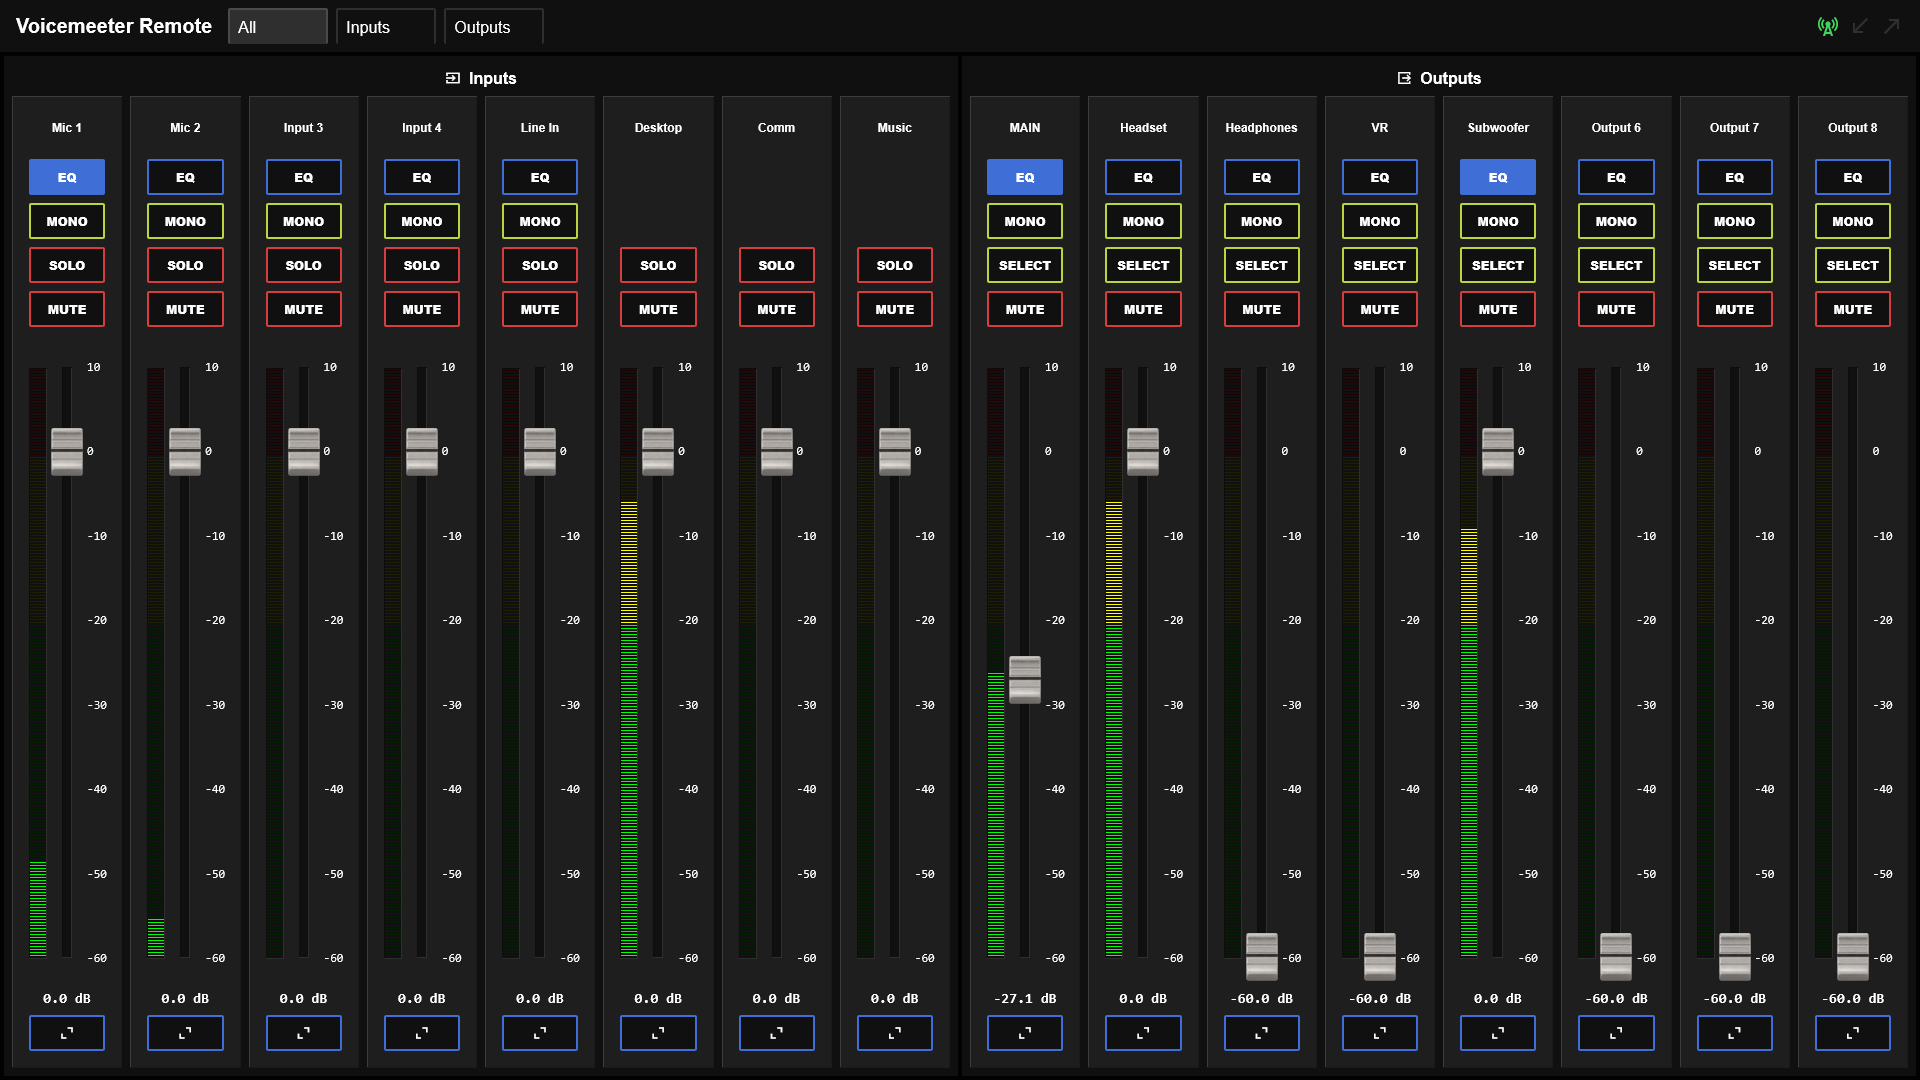
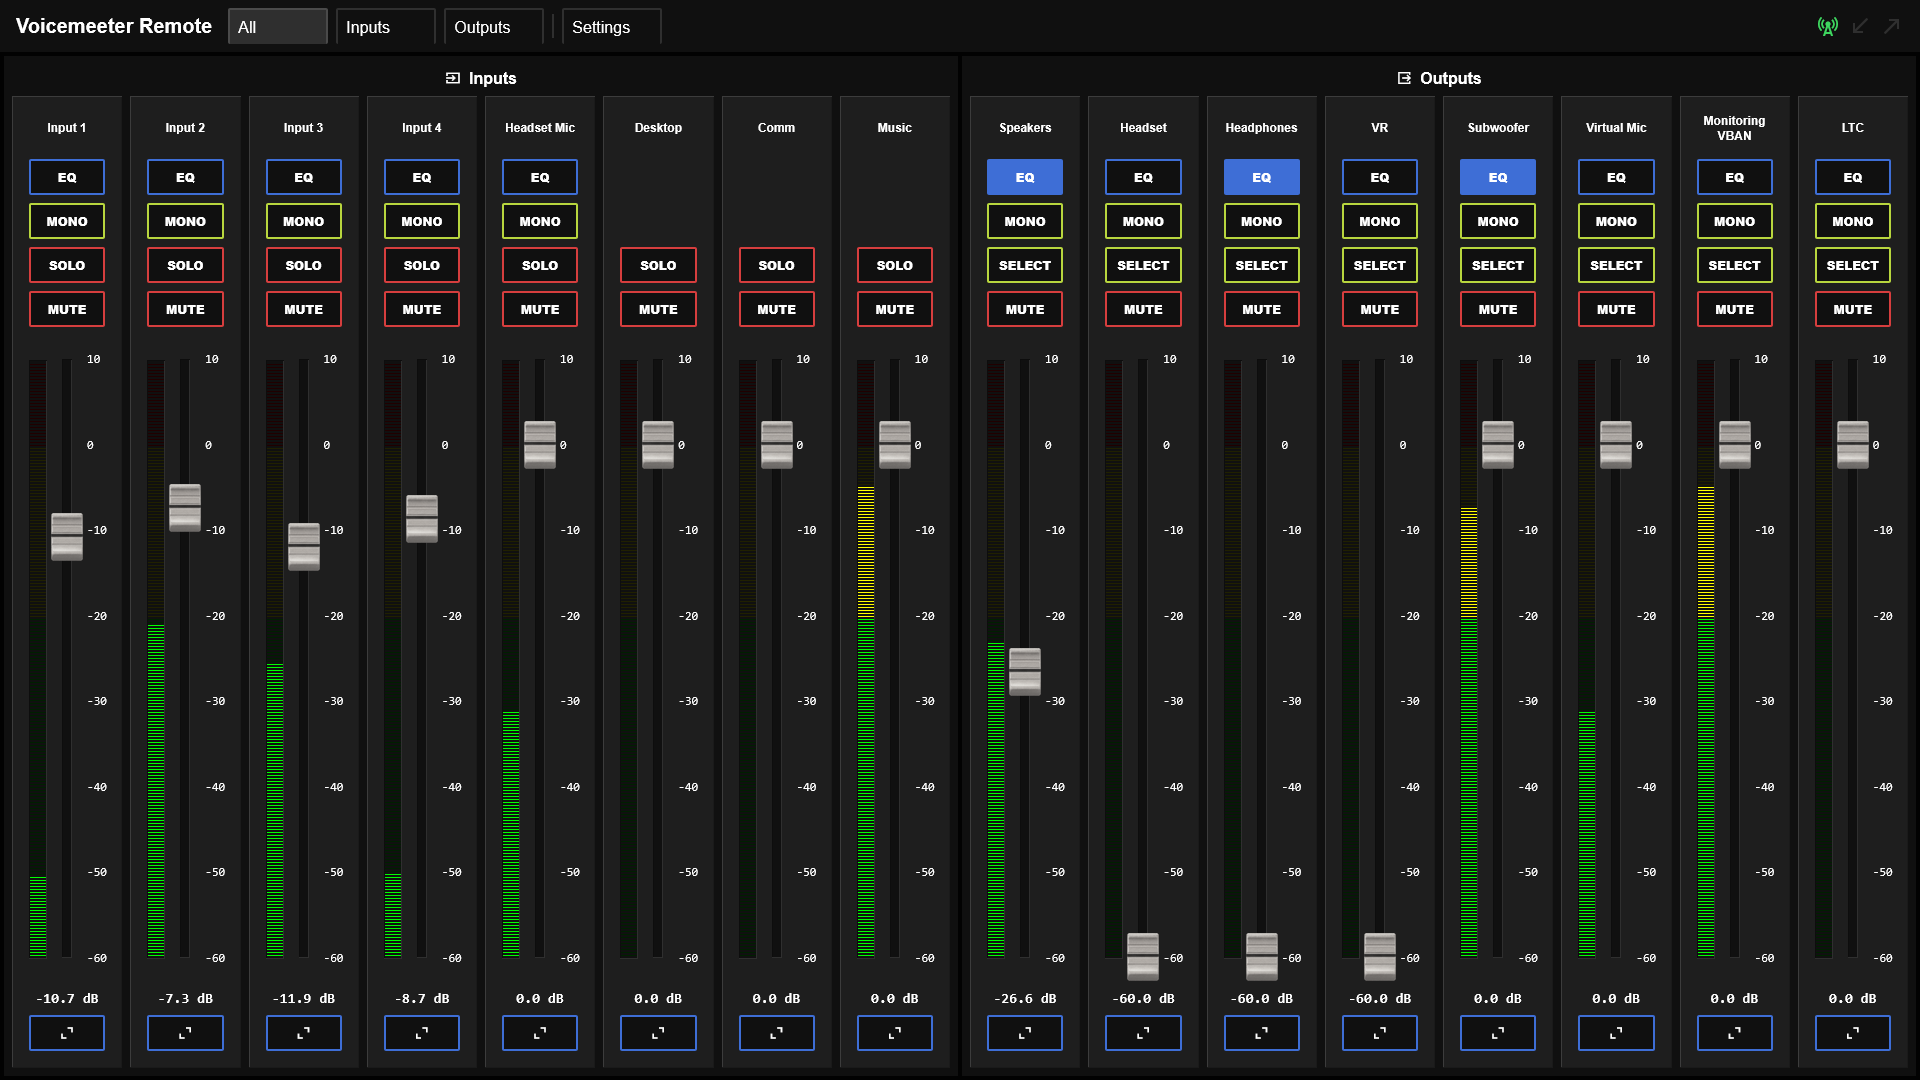
update README with new features

diff --git a/README.MD b/README.MD
@@ -7,10 +7,16 @@ Allows you to control pretty much everything in Voicemeter from a web browser.
 
 ![Screenshot of the Detailed View](/images/screenshot_details.png)
 
+![Screenshot of the Device Settings](/images/screenshot_device_settings.png)
+
+![Screenshot of the VBAN Settings](/images/screenshot_vban_settings.png)
+
 ## Features
 - Control all Input and Output channels
 - Set Compressor, Gate, and EQ settings
 - Control Routing and Bus assignments
+- Change device assignment for each channel
+- Configure VBAN inputs and outputs
 
 ## Installation and Usage
 
@@ -36,3 +42,5 @@ Click at the close button on the top left of the detailed view to close it again
 Double-clicking on a slider or knob will reset it to its default value.
 
 Click and drag sliders and knobs to adjust their values. You can also use the scroll wheel to adjust sliders and knobs, holding the `Shift` key while scrolling will adjust the value in bigger steps.
+
+Right-clicking on a slider allows you to manually enter your desired value using your keyboard.
